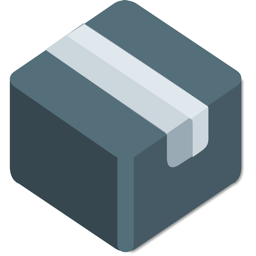
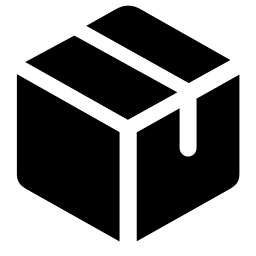
Use SFA's MenuIcon SF Symbol for the menu bar
The Wikimedia / docs/assets/icon.svg is the canonical sing-box logo but it's
a multi-tone 3D box that collapses into an indistinct silhouette at menu bar
size. Sing-box-for-apple ships its own purpose-built monochrome menu bar
glyph at MacLibrary/Assets.xcassets/MenuIcon.symbolset/menu_icon.svg, which
is exactly the icon SFA renders in its own status bar (NSImage isTemplate).

Extracted the Regular-Large variant from that SF Symbol template, wrapped
it in a standalone SVG, and rendered to PNG via librsvg. The interior
"tape + tag" detail survives at 22pt because it's defined by the path's
fill-rule rather than by separate colored fills.

Extension store icon stays the full-color logo for the Raycast UI.

diff --git a/README.md b/README.md
@@ -49,7 +49,8 @@ All `sudo -n` calls are covered by the SingBoxMenu sudoers entry; if that file i
 
 ## Credits
 
-- Icon: [Sing-box.svg](https://commons.wikimedia.org/wiki/File:Sing-box.svg) on Wikimedia Commons.
+- Menu bar icon: extracted from [sing-box-for-apple](https://github.com/SagerNet/sing-box-for-apple)'s `MacLibrary/Assets.xcassets/MenuIcon.symbolset/menu_icon.svg` (Regular weight, Large scale). Rendered to PNG with `rsvg-convert`.
+- Extension store icon: [docs/assets/icon.svg](https://github.com/SagerNet/sing-box/blob/testing/docs/assets/icon.svg) from the upstream sing-box repo (also mirrored at [Wikimedia Commons](https://commons.wikimedia.org/wiki/File:Sing-box.svg)).
 - Daemon scaffolding: [SingBoxMenu](https://github.com/kazelise/SingBoxMenu).
 
 ## License
